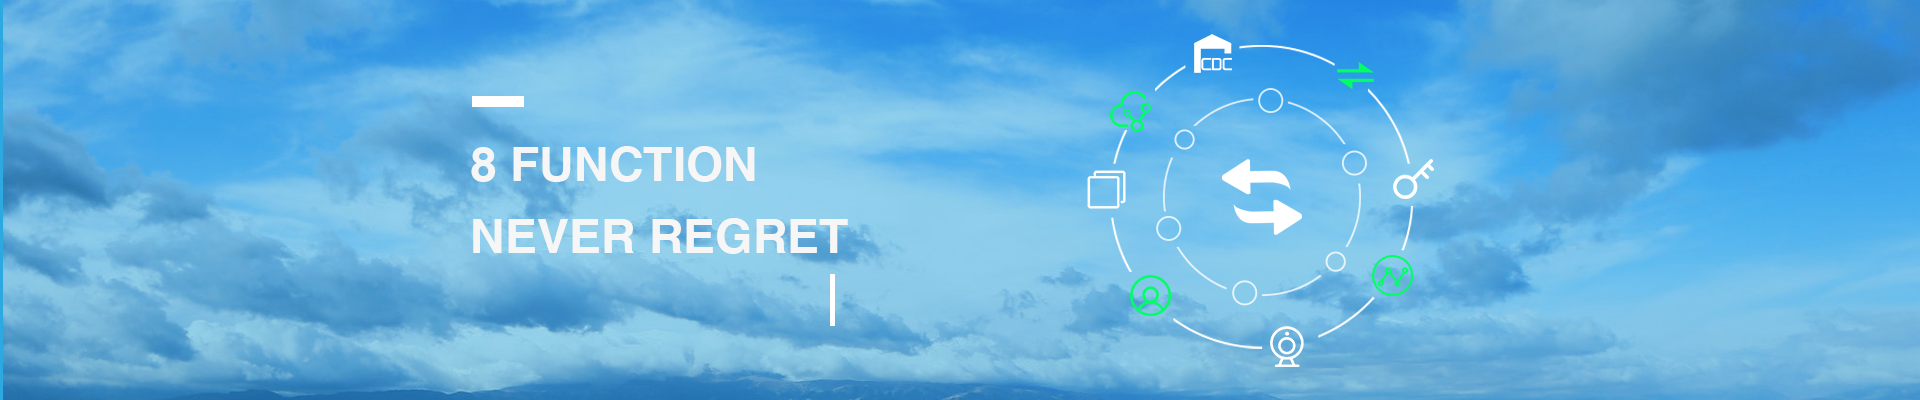
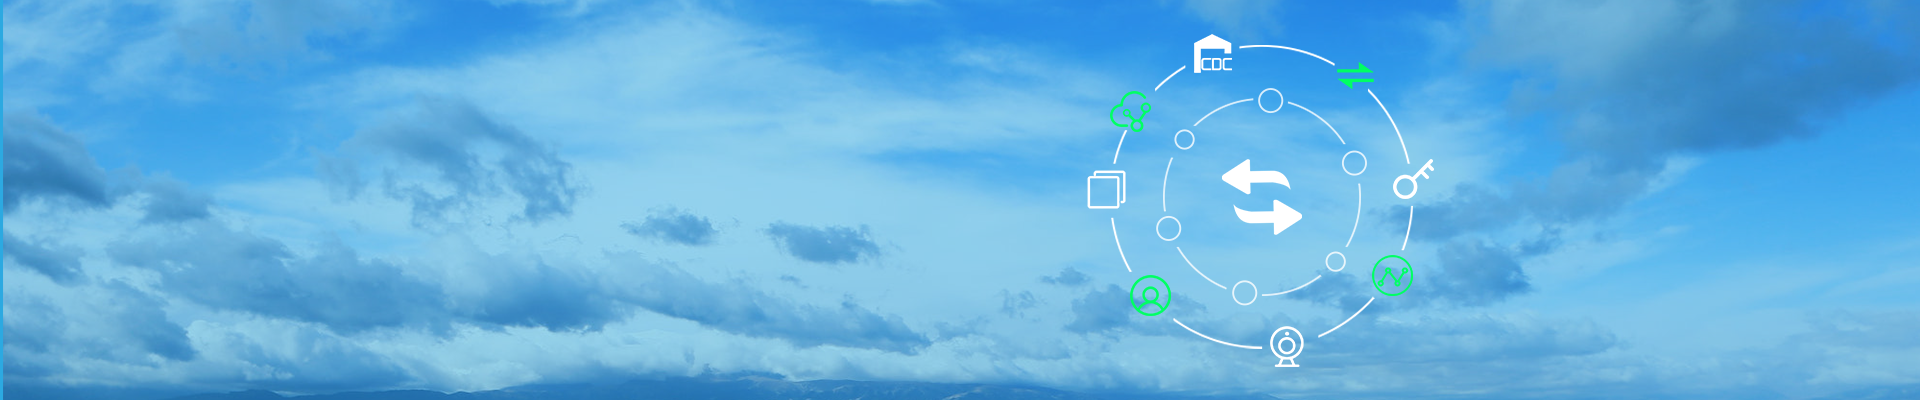
改改改

Changed region(s): [[0.2188, 0.54, 0.4375, 0.63], [0.2188, 0.36, 0.4062, 0.45], [0.2188, 0.24, 0.2812, 0.27]]

diff --git a/css/features.css b/css/features.css
@@ -4,6 +4,35 @@
   background-image: url(../images/features/banner1.png);
   background-size: 100% 100%;
 }
+.banner .titlebox{
+  width: 400px;
+  height: 232px;
+  margin-left: 23%;
+  padding-top: 95px;
+  position: relative;
+}
+.banner .titlebox P{
+  margin-top: 30px;
+  color: #fff;
+  font-size: 48px;
+  font-weight: bold;
+}
+.banner .titlebox .line1{
+  width: 52px;
+  height: 13px;
+  position: relative;
+  top: 0;
+  left: 0;
+  background-color: #fff;
+}
+.banner .titlebox .line2{
+  width: 6px;
+  height: 53px;
+  position: relative;
+  top: 20px;
+  left: 370px;
+  background-color: #fff;
+}
 p {
   margin: 0;
   overflow: hidden;
@@ -140,14 +169,13 @@ p {
   letter-spacing: -2px;
 }
 .articleContainer .article1 .content {
-  line-height: 1;
   padding: 25px 45px 65px 45px;
   display: block;
   background-color: #2ca9e1;
   height: 346px;
   color: #ffffff;
   font-size: 16px;
-  line-height: 2;
+  line-height: 2.1;
 }
 .articleContainer .article2 {
   float: left;

diff --git a/css/features.less b/css/features.less
@@ -140,15 +140,43 @@ p {
       font-weight: bold;
       letter-spacing: -2px;
     }
+    .titlebox{
+      width: 400px;
+      height: 232px;
+      margin-left: 23%;
+      padding-top: 95px;
+      position: relative;
+      p{
+        margin-top: 30px;
+        color: #fff;
+        font-size: 48px;
+        font-weight: bold;
+      }
+      .line1{
+        width: 52px;
+        height: 13px;
+        position: relative;
+        top: 0;
+        left: 0;
+        background-color: #fff;
+      }
+      .line2{
+        width: 6px;
+        height: 53px;
+        position: relative;
+        top: 20px;
+        left: 370px;
+        background-color: #fff;
+      }
+    }
     .content {
-      line-height: 1;
       padding: 25px 45px 65px 45px;
       display: block;
       background-color: #2ca9e1;
       height: 346px;
       color: #ffffff;
       font-size: 16px;
-      line-height: 2;
+      line-height: 2.1;
     }
   }
   .article2 {

diff --git a/css/redoma.less b/css/redoma.less
@@ -159,9 +159,9 @@
   text-decoration: none;
   background-color: rgb(44,169,225);
   font-size: 14px;
-  padding: 8px 4px 4px 8px;
+  padding: 9px 2px 4px 8px;
   color: rgb(218,218,218);
-  width: 93px;
+  width: 100px;
   max-width: 130px;
   margin-left: 0px;
   margin-top: 20px;
@@ -172,9 +172,9 @@
   text-decoration: none;
   background-color: rgb(44,169,225);
   font-size: 14px;
-  padding: 8px 4px 4px 6px;
+  padding: 9px 2px 4px 8px;
   color: rgb(218,218,218);
-  width: 93px;
+  width: 100px;
   max-width: 130px;
   margin-left: 0px;
   margin-top: 20px;
@@ -284,7 +284,7 @@
   width: 100px;
   height: 24px;
   display: block;
-  padding: 6px 6px 6px 6px;
+  padding: 9px 6px 3px 6px;
   text-align: center;
 }
 .pricing .benifits .whiteboard a{

diff --git a/css/redoma.css b/css/redoma.css
@@ -158,9 +158,9 @@
   text-decoration: none;
   background-color: #2ca9e1;
   font-size: 14px;
-  padding: 8px 4px 4px 8px;
+  padding: 9px 2px 4px 8px;
   color: #dadada;
-  width: 93px;
+  width: 100px;
   max-width: 130px;
   margin-left: 0px;
   margin-top: 20px;
@@ -171,9 +171,9 @@
   text-decoration: none;
   background-color: #2ca9e1;
   font-size: 14px;
-  padding: 8px 4px 4px 6px;
+  padding: 9px 2px 4px 8px;
   color: #dadada;
-  width: 93px;
+  width: 100px;
   max-width: 130px;
   margin-left: 0px;
   margin-top: 20px;
@@ -283,7 +283,7 @@
   width: 100px;
   height: 24px;
   display: block;
-  padding: 6px 6px 6px 6px;
+  padding: 9px 6px 3px 6px;
   text-align: center;
 }
 .pricing .benifits .whiteboard a {

diff --git a/css/architeture.less b/css/architeture.less
@@ -50,7 +50,6 @@ p {
     float: left;
     overflow: hidden;
     .title {
-      font-weight: bolder;
       line-height: 1;
       margin-bottom: 38px;
       letter-spacing: -9px;
@@ -145,7 +144,7 @@ p {
       width: 400px;
       font-size: 36px;
       color: #313131;
-      font-weight: bolder;
+      font-weight: bold;
       padding-top: 321px;
       line-height: 1.3;
     }
@@ -200,7 +199,7 @@ p {
       font-weight: bold;
     }
     .info {
-      margin-top: 12px;
+      margin-top: 32px;
       font-size: 16px;
       color: #999999;
       margin-left: 48px;

diff --git a/css/architeture.css b/css/architeture.css
@@ -52,7 +52,6 @@ p {
   overflow: hidden;
 }
 .main .titlebox .title {
-  font-weight: bolder;
   line-height: 1;
   margin-bottom: 38px;
   letter-spacing: -9px;
@@ -145,7 +144,7 @@ p {
   width: 400px;
   font-size: 36px;
   color: #313131;
-  font-weight: bolder;
+  font-weight: bold;
   padding-top: 321px;
   line-height: 1.3;
 }
@@ -198,7 +197,7 @@ p {
   font-weight: bold;
 }
 .introduce .infobox .info {
-  margin-top: 12px;
+  margin-top: 32px;
   font-size: 16px;
   color: #999999;
   margin-left: 48px;

diff --git a/features.html b/features.html
@@ -25,7 +25,14 @@
         <a href="javascript:;"><li>SIGN UP</li></a>
     </div>
 </div>
-<div class="banner"></div>
+<div class="banner">
+    <div class="titlebox">
+        <div class="line1"></div>
+        <p>8 FUNCTIONS</p>
+        <p>NEVER REGRET</p>
+        <div class="line2"></div>
+    </div>
+</div>
 <div class="blanktab">
     <div class="blank1"></div>
     <div class="blank2"></div>

diff --git a/css/global.css b/css/global.css
@@ -1,4 +1,9 @@
+@font-face {
+  font-family: Helvetica;
+  src: url('./font/Helvetica.ttf')
+}
 body {
+  font-family: Helvetica;
   width: 100%;
   padding: 0;
   margin: 0;
